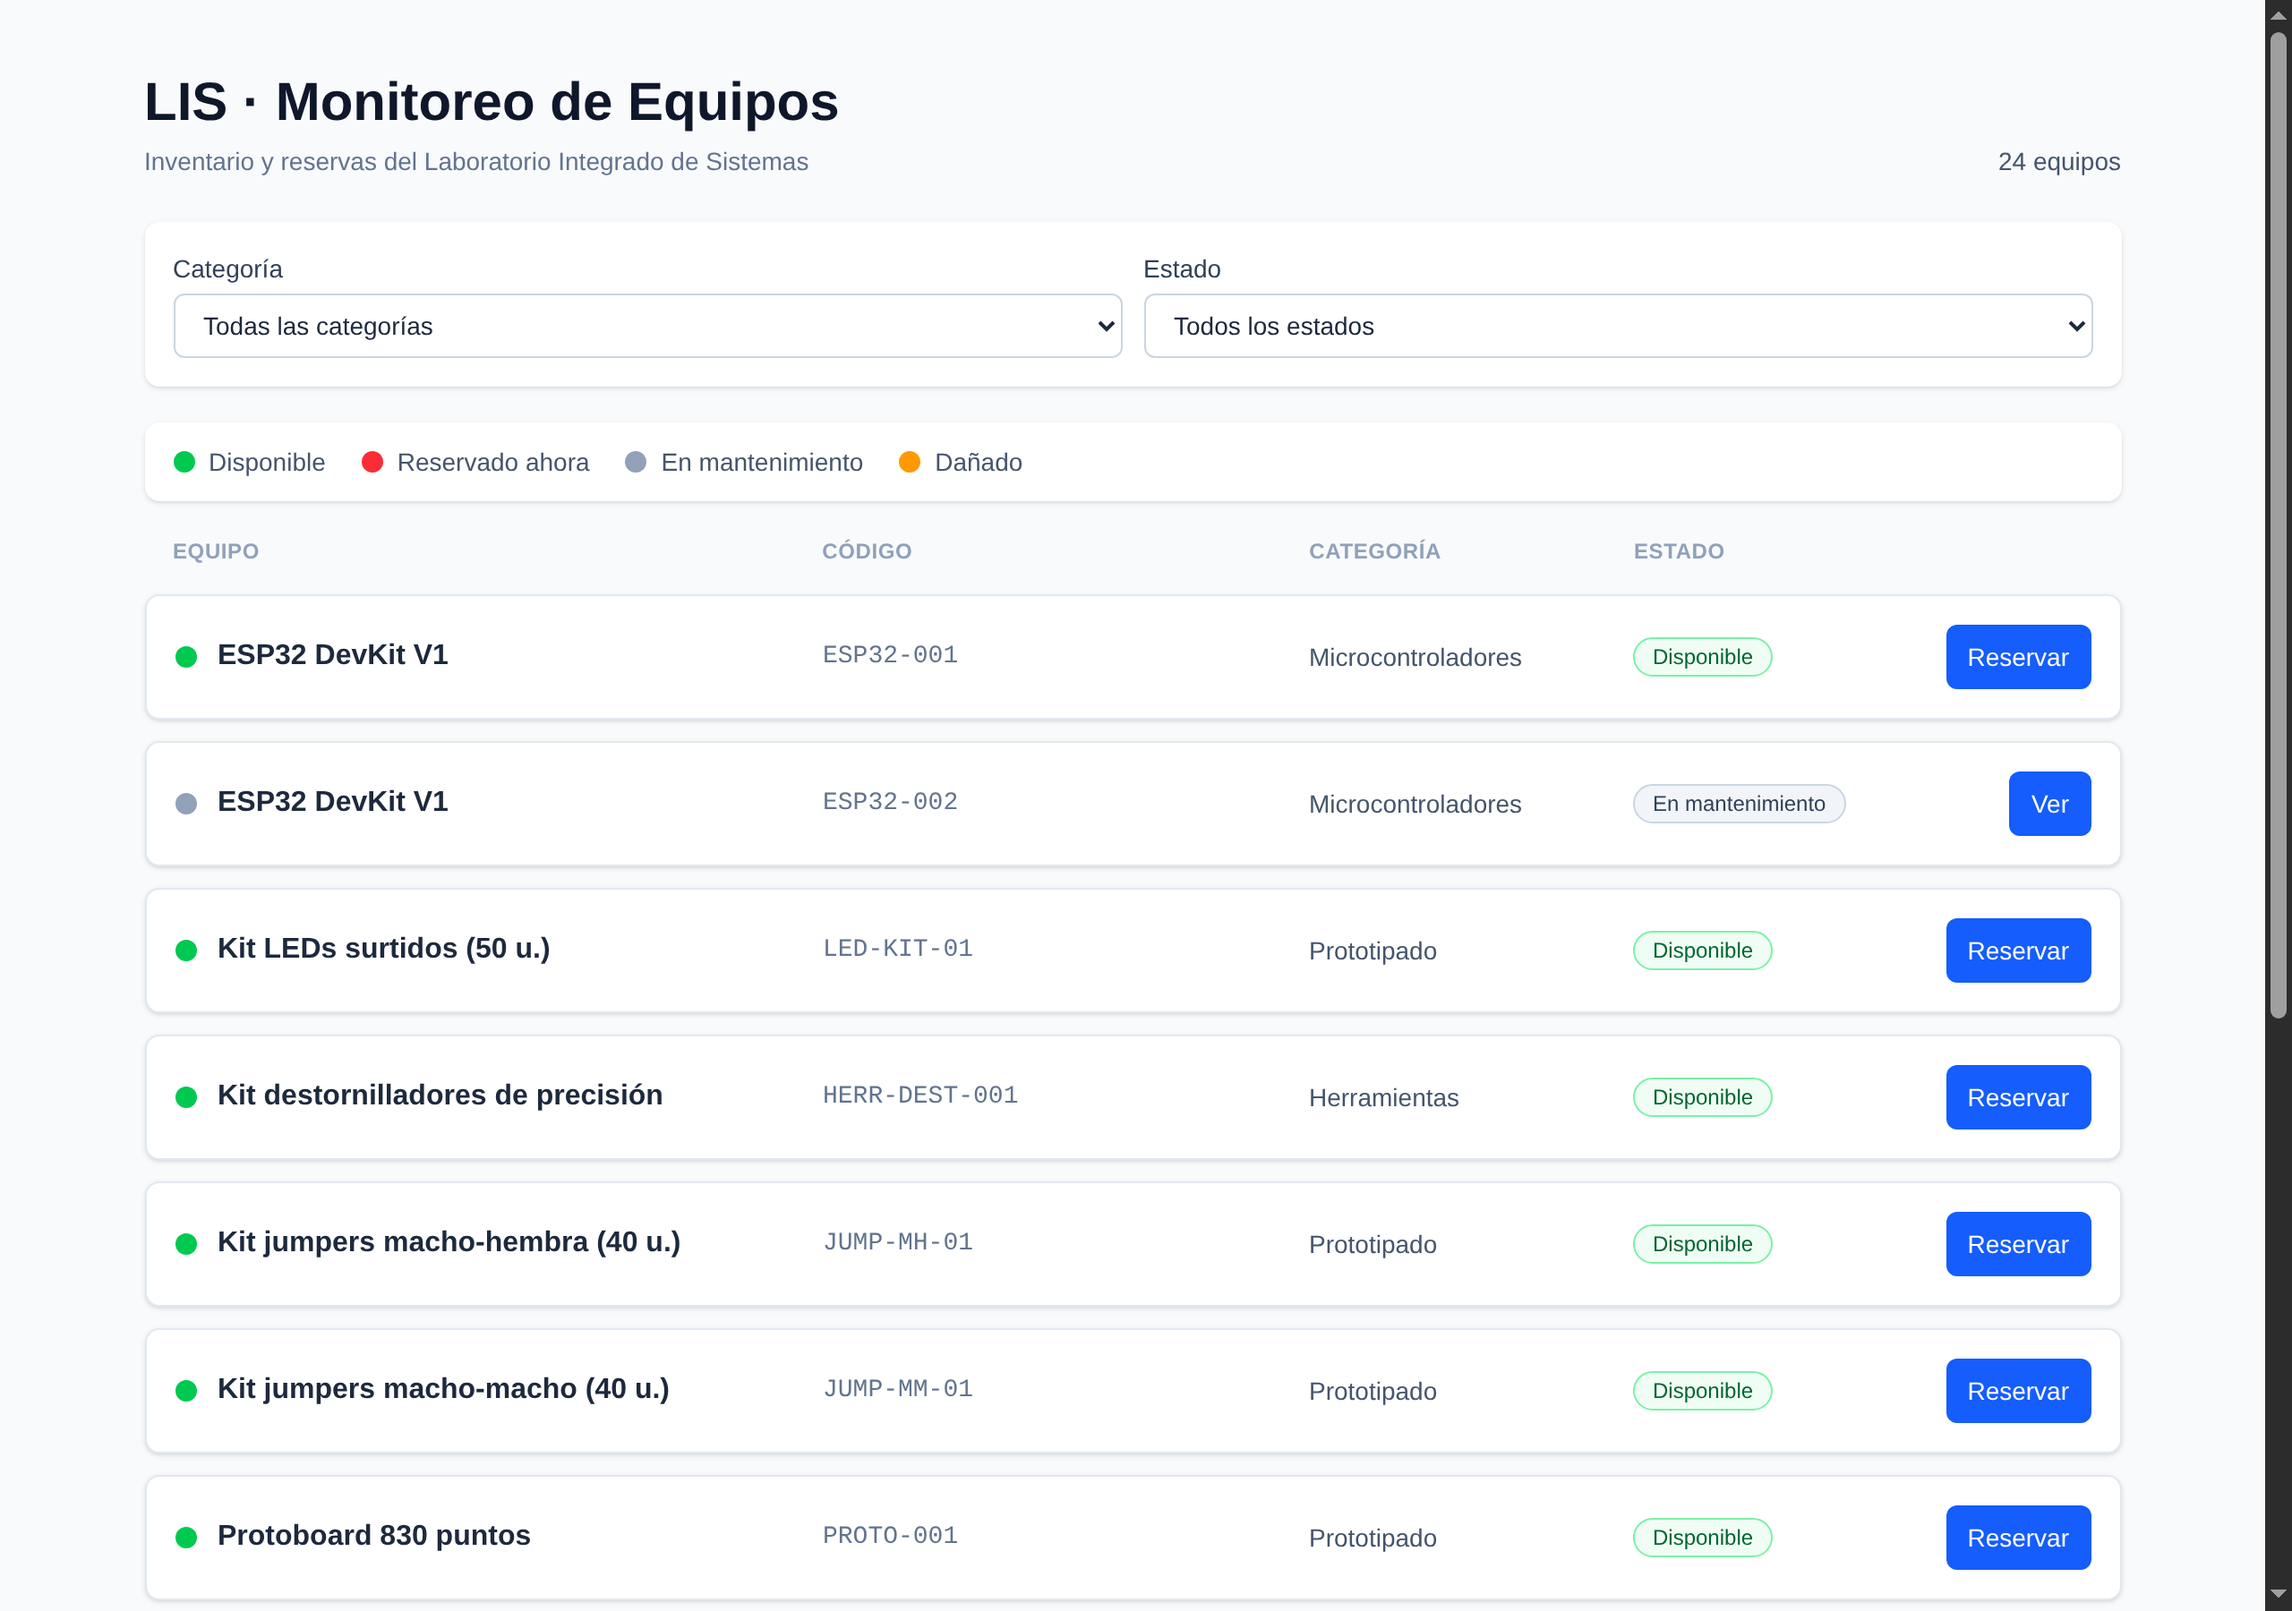
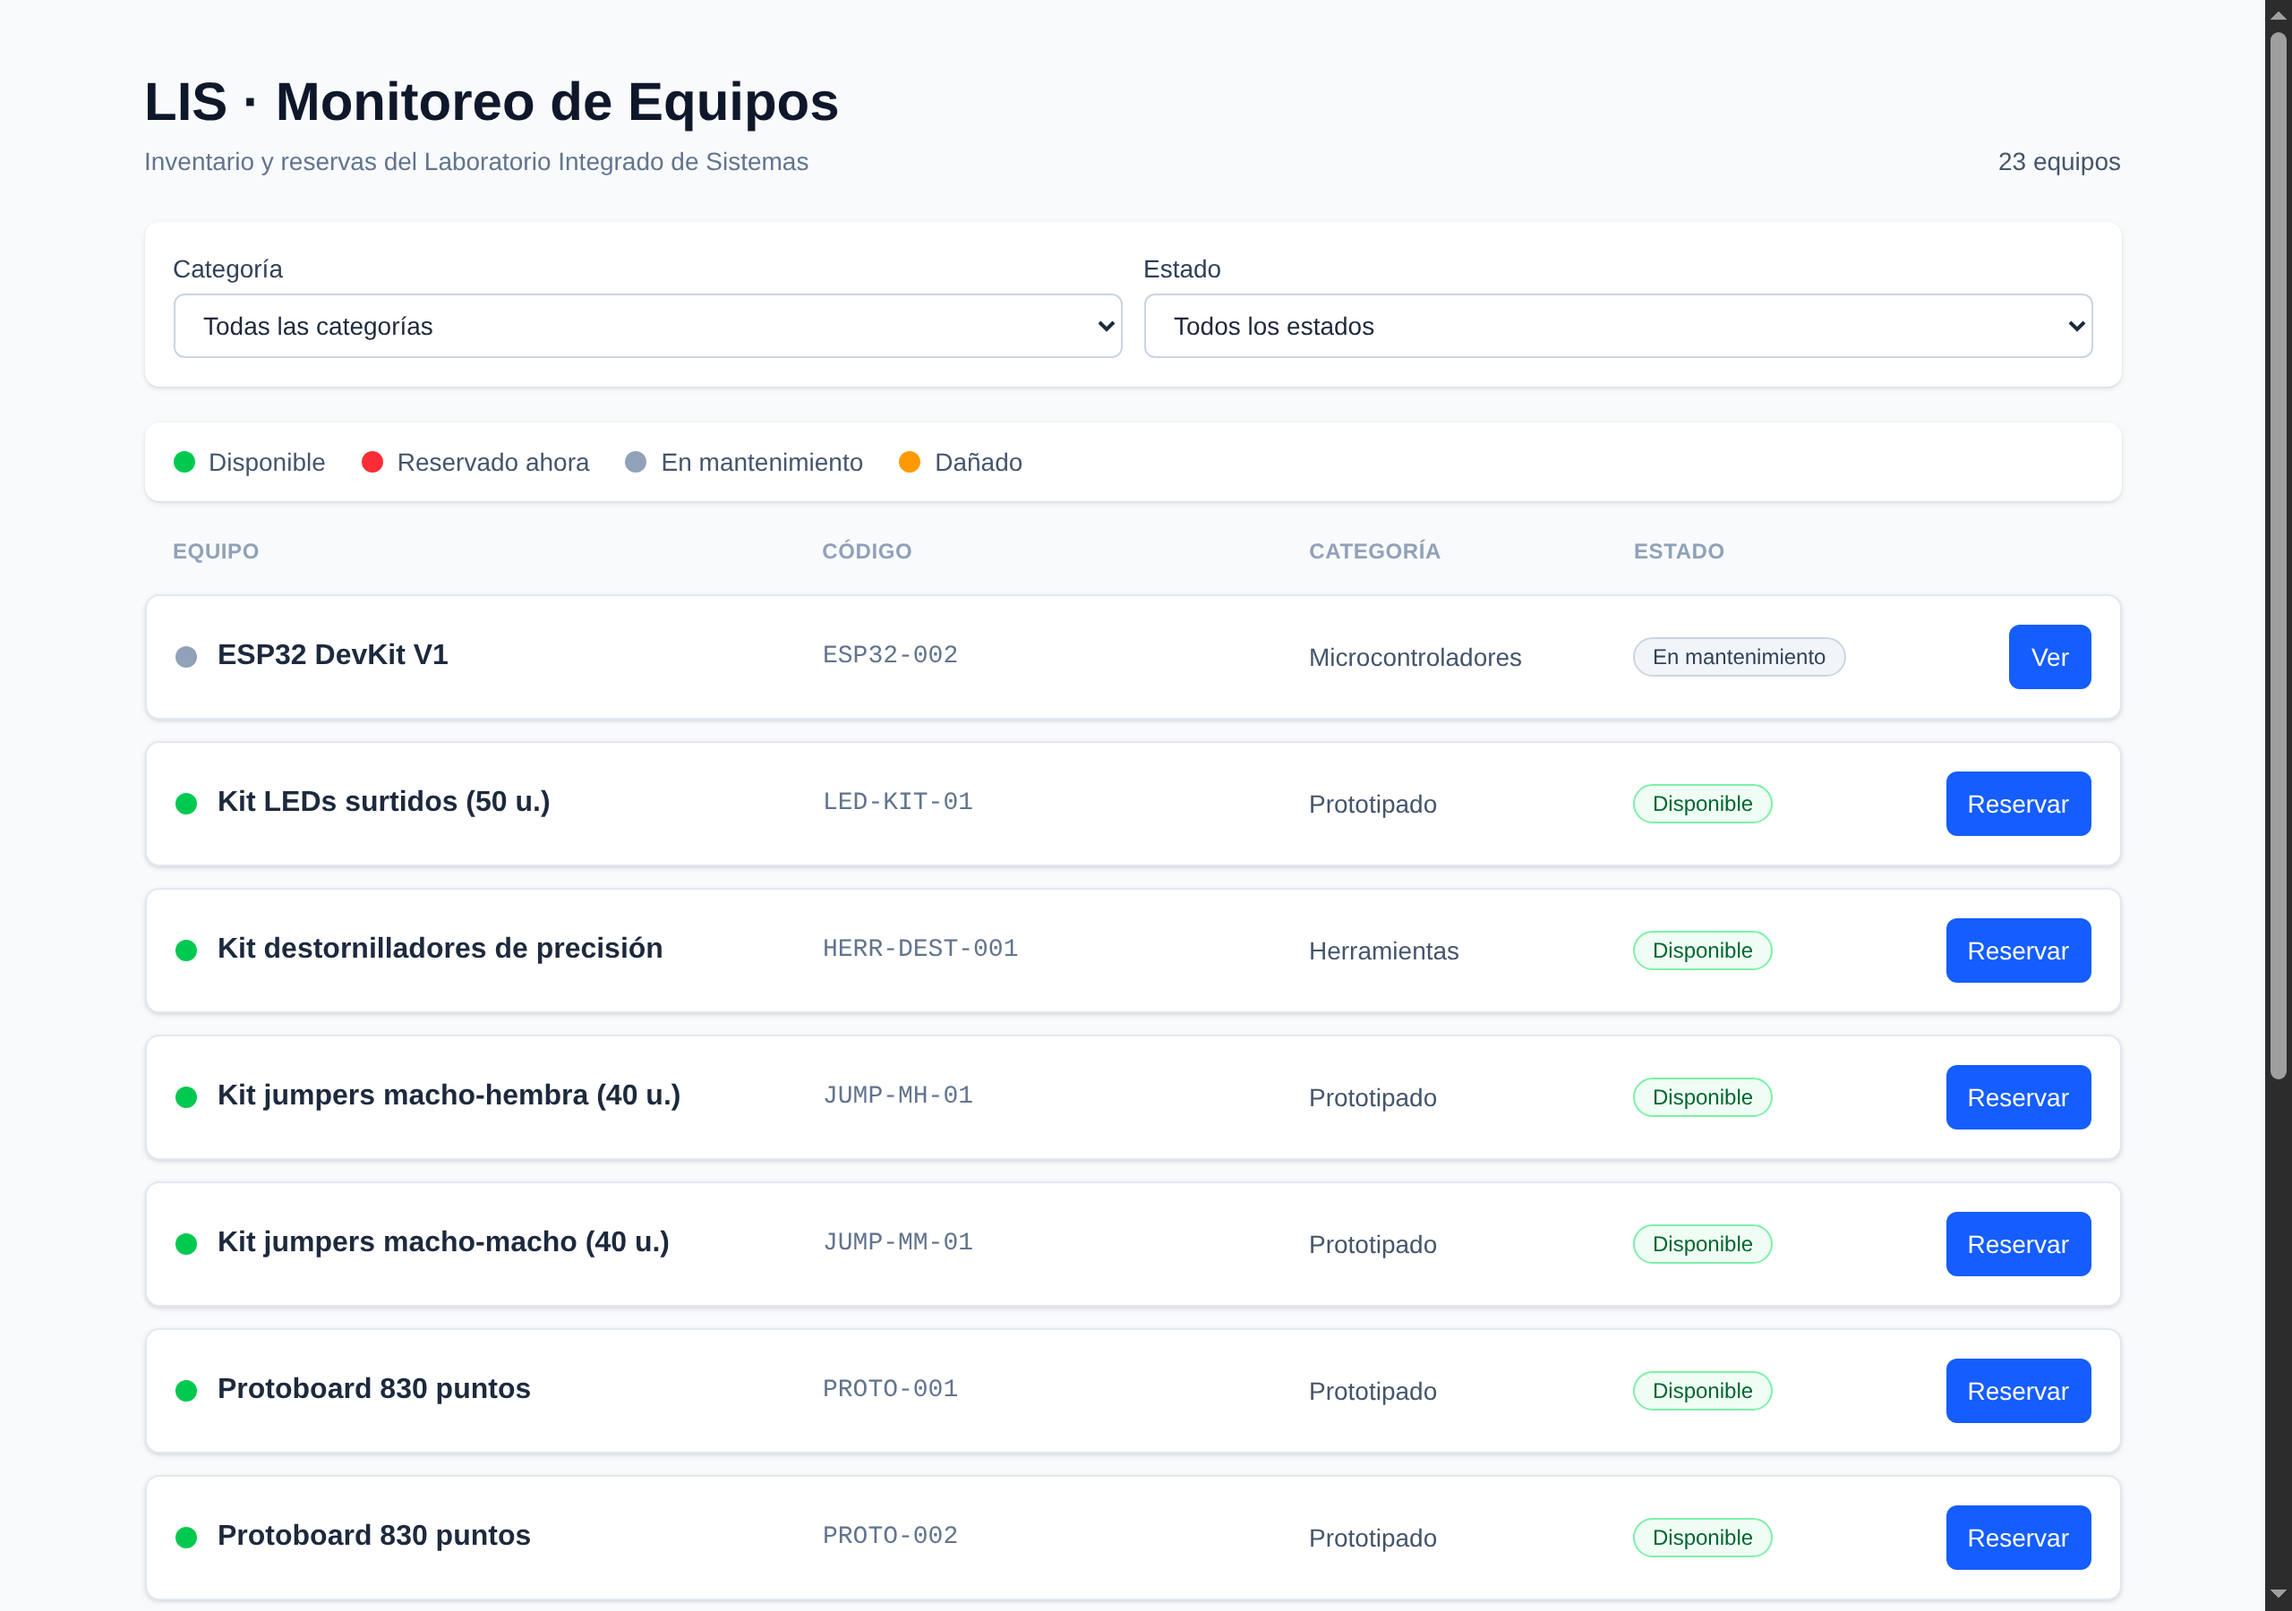
docs: capturas y README con el filtro de los cuatro colores
Se regeneran las capturas con los datos correctos (Daniel Salas) y se
anade una nueva mostrando el filtro 'Reservado ahora' en accion.

El README explica los dos caminos del filtro y su limitacion.

diff --git a/frontend/README.md b/frontend/README.md
@@ -43,6 +43,15 @@ ancho para poder tocarlos con el dedo.
 No es la misma tabla encogida: es una disposición distinta, pensada para una
 pantalla estrecha.
 
+### Filtrar por color
+
+![Filtro por reservado ahora](docs/capturas/5-filtro-reservado-ahora.png)
+
+El desplegable de estado ofrece **los cuatro colores de la leyenda**, así que
+filtrar es tan intuitivo como mirar la pantalla: si ves puntos rojos, pides
+"solo los rojos". Aquí se ve el filtro *Reservado ahora* dejando únicamente la
+Raspberry Pi, con el contador ajustado a "1 equipo".
+
 ### El panel de reservas (y el manejo de errores)
 
 ![Error de horario ocupado](docs/capturas/3-error-horario-ocupado.png)
@@ -123,6 +132,9 @@ apagarlo, `Ctrl + C`.
 2. **Filtra.** Elige *Herramientas* en el desplegable de categoría. La lista
    se reduce **al instante, sin que la página se recargue**, y el contador de
    arriba pasa de 24 a 5.
+
+   Prueba también el filtro de estado *🔴 Reservado ahora*: deja solo los
+   equipos que alguien tiene ocupados en este preciso momento.
 
 3. **Reserva un equipo.** Pulsa *Reservar* en cualquier equipo verde, rellena
    tu nombre y correo, deja el horario que viene sugerido y pulsa *Reservar*.
@@ -351,6 +363,22 @@ tiene una reserva activa que se cruza con esa franja horaria"* — correcto pero
 técnico. La pantalla muestra *"Ese horario ya está ocupado. Elige otro o
 revisa las reservas activas del equipo"*, que además dice **qué hacer**.
 
+### 3. Filtrar por un estado que la API no conoce
+
+El desplegable ofrece los cuatro colores, pero la API solo guarda tres
+estados: para ella "disponible" y "reservado ahora" son **lo mismo**. Eso
+obliga a dos caminos distintos:
+
+| Filtro elegido | Cómo se resuelve |
+|---|---|
+| Ninguno, *En mantenimiento* o *Dañado* | La API hace todo el trabajo, **incluida la paginación**. Es el camino normal. |
+| *Disponible* o *Reservado ahora* | La API no los distingue, así que se le piden **todos** los que ella considera disponibles y aquí se separan en dos grupos comparándolos con las reservas activas. Como ya no puede paginar por nosotros, la paginación se hace en el navegador. |
+
+**Limitación aceptada:** ese segundo camino pide hasta 100 equipos de una vez
+(el máximo de la API). Si el laboratorio superara los 100 equipos disponibles,
+esos dos filtros solo considerarían los primeros 100. Con 24 va muy holgado, y
+resolverlo del todo obligaría a recorrer varias páginas en cada carga.
+
 ---
 
 ## Documentación del proceso
@@ -371,8 +399,9 @@ El historial de commits sigue esas tareas una por una.
 ## Qué incluye y qué no
 
 **Incluido:** tablero con el inventario, indicadores de color, filtros por
-categoría y estado sin recargar la página, paginación, crear y cancelar
-reservas, manejo de errores amigable y diseño adaptable a celular.
+categoría y por los cuatro estados de color (incluido "reservado ahora") sin
+recargar la página, paginación, crear y cancelar reservas, manejo de errores
+amigable y diseño adaptable a celular.
 
 **No incluido:**
 
